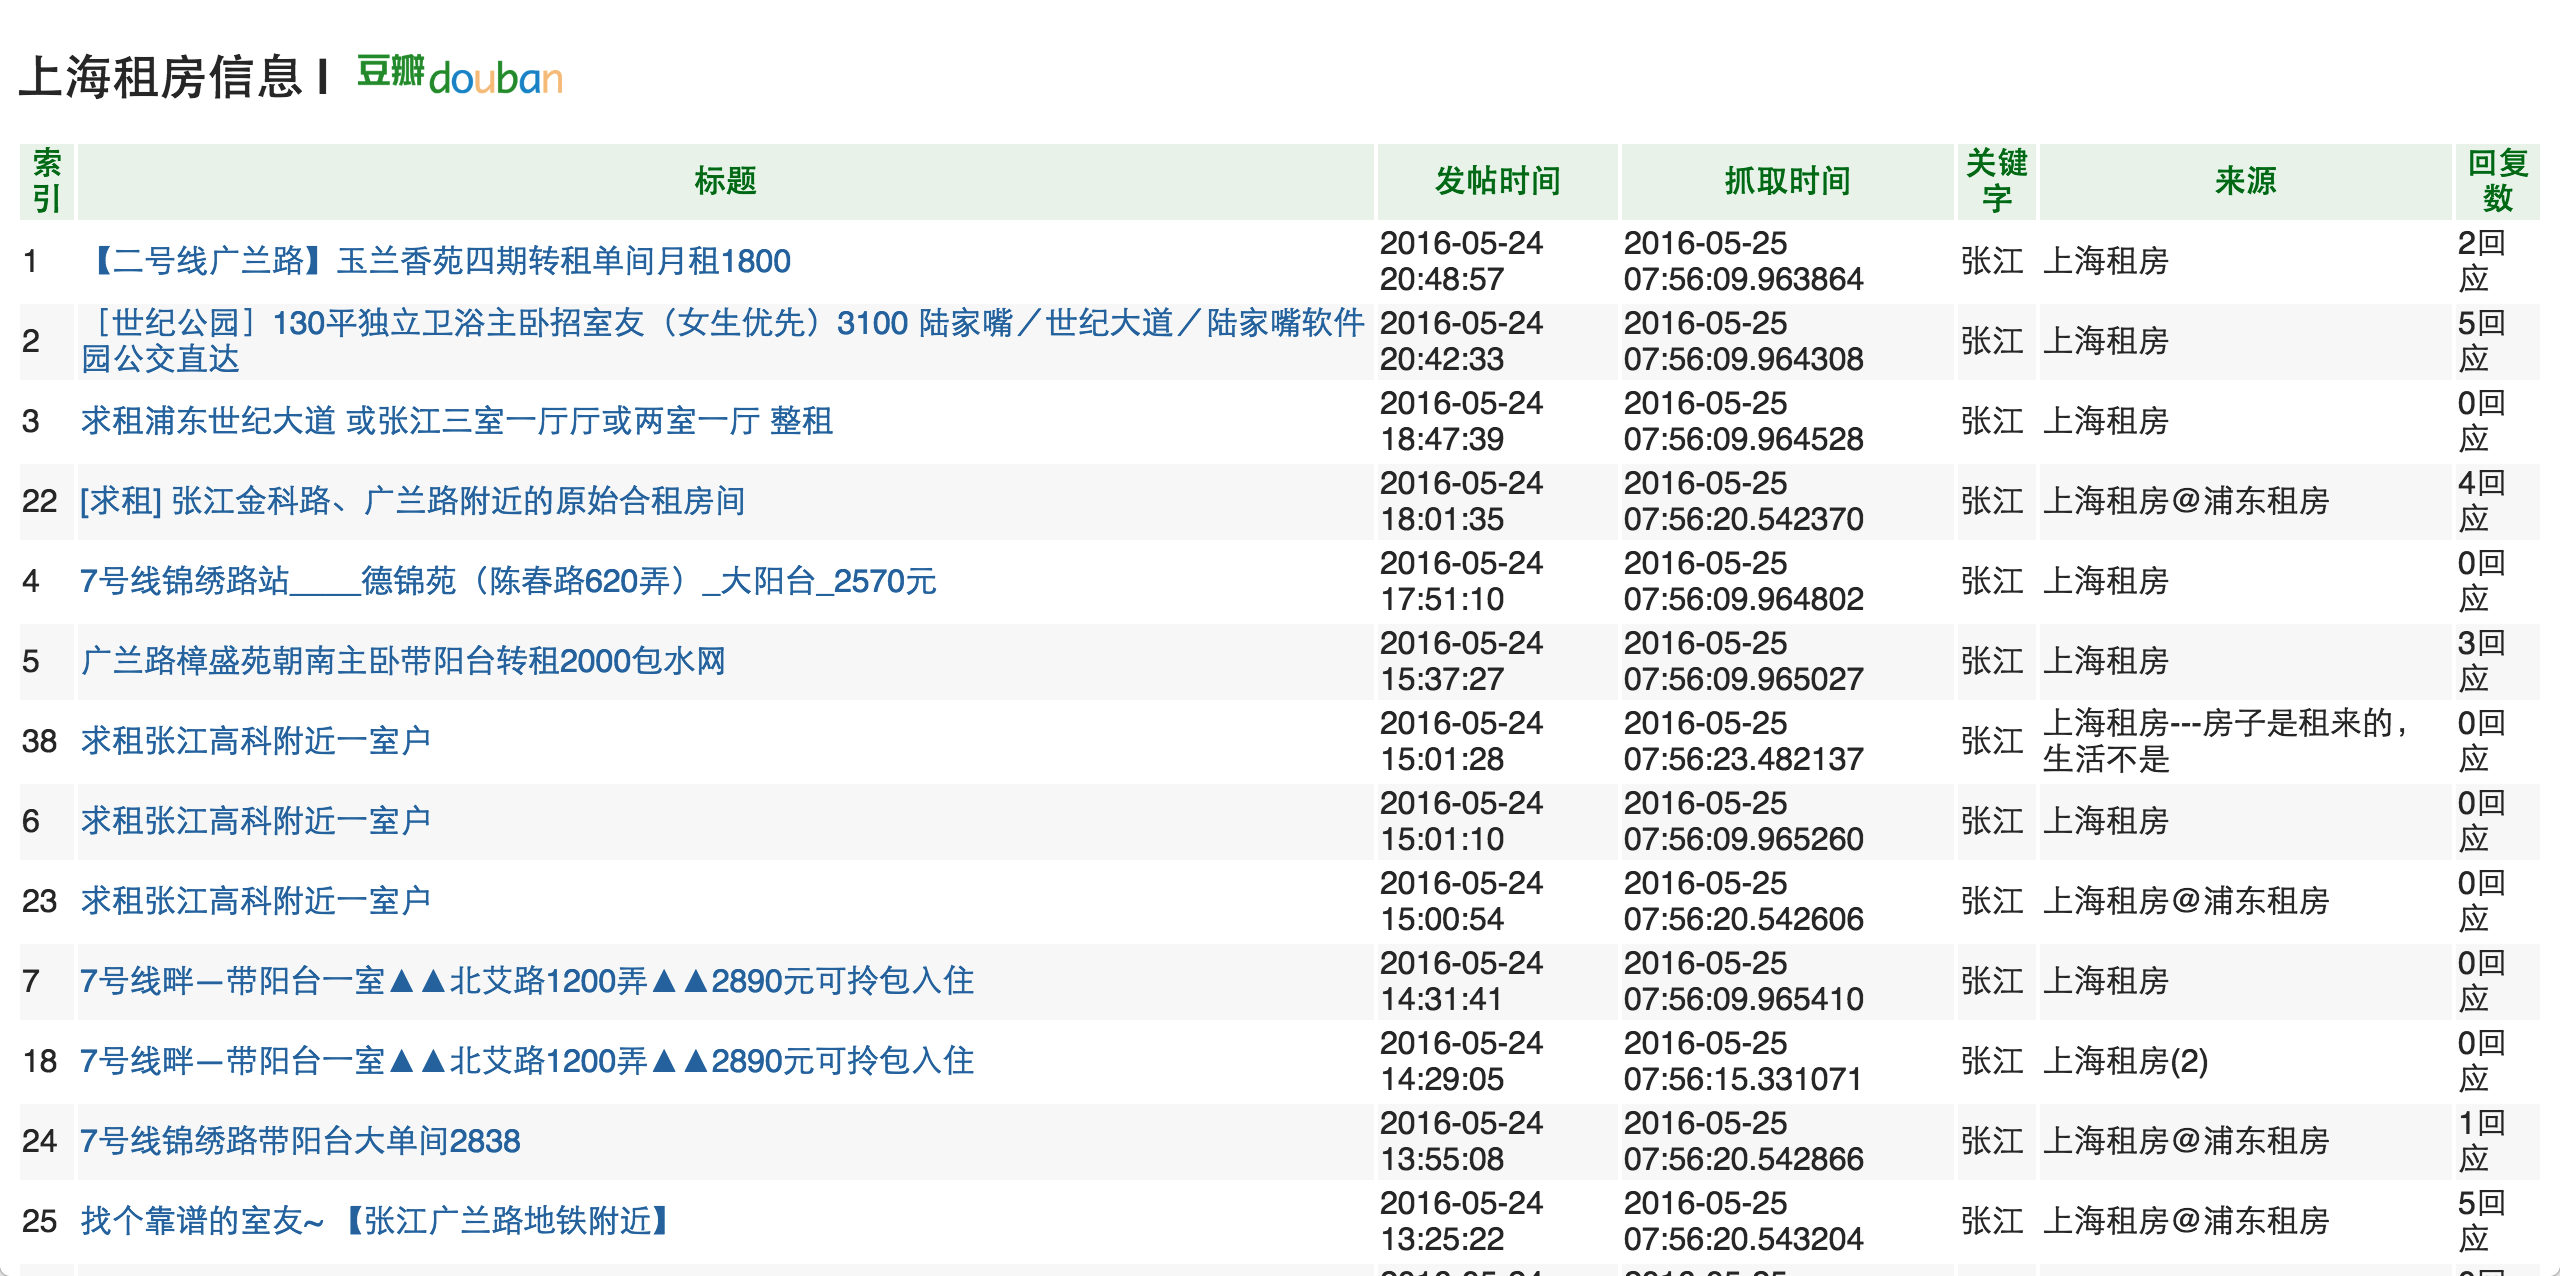
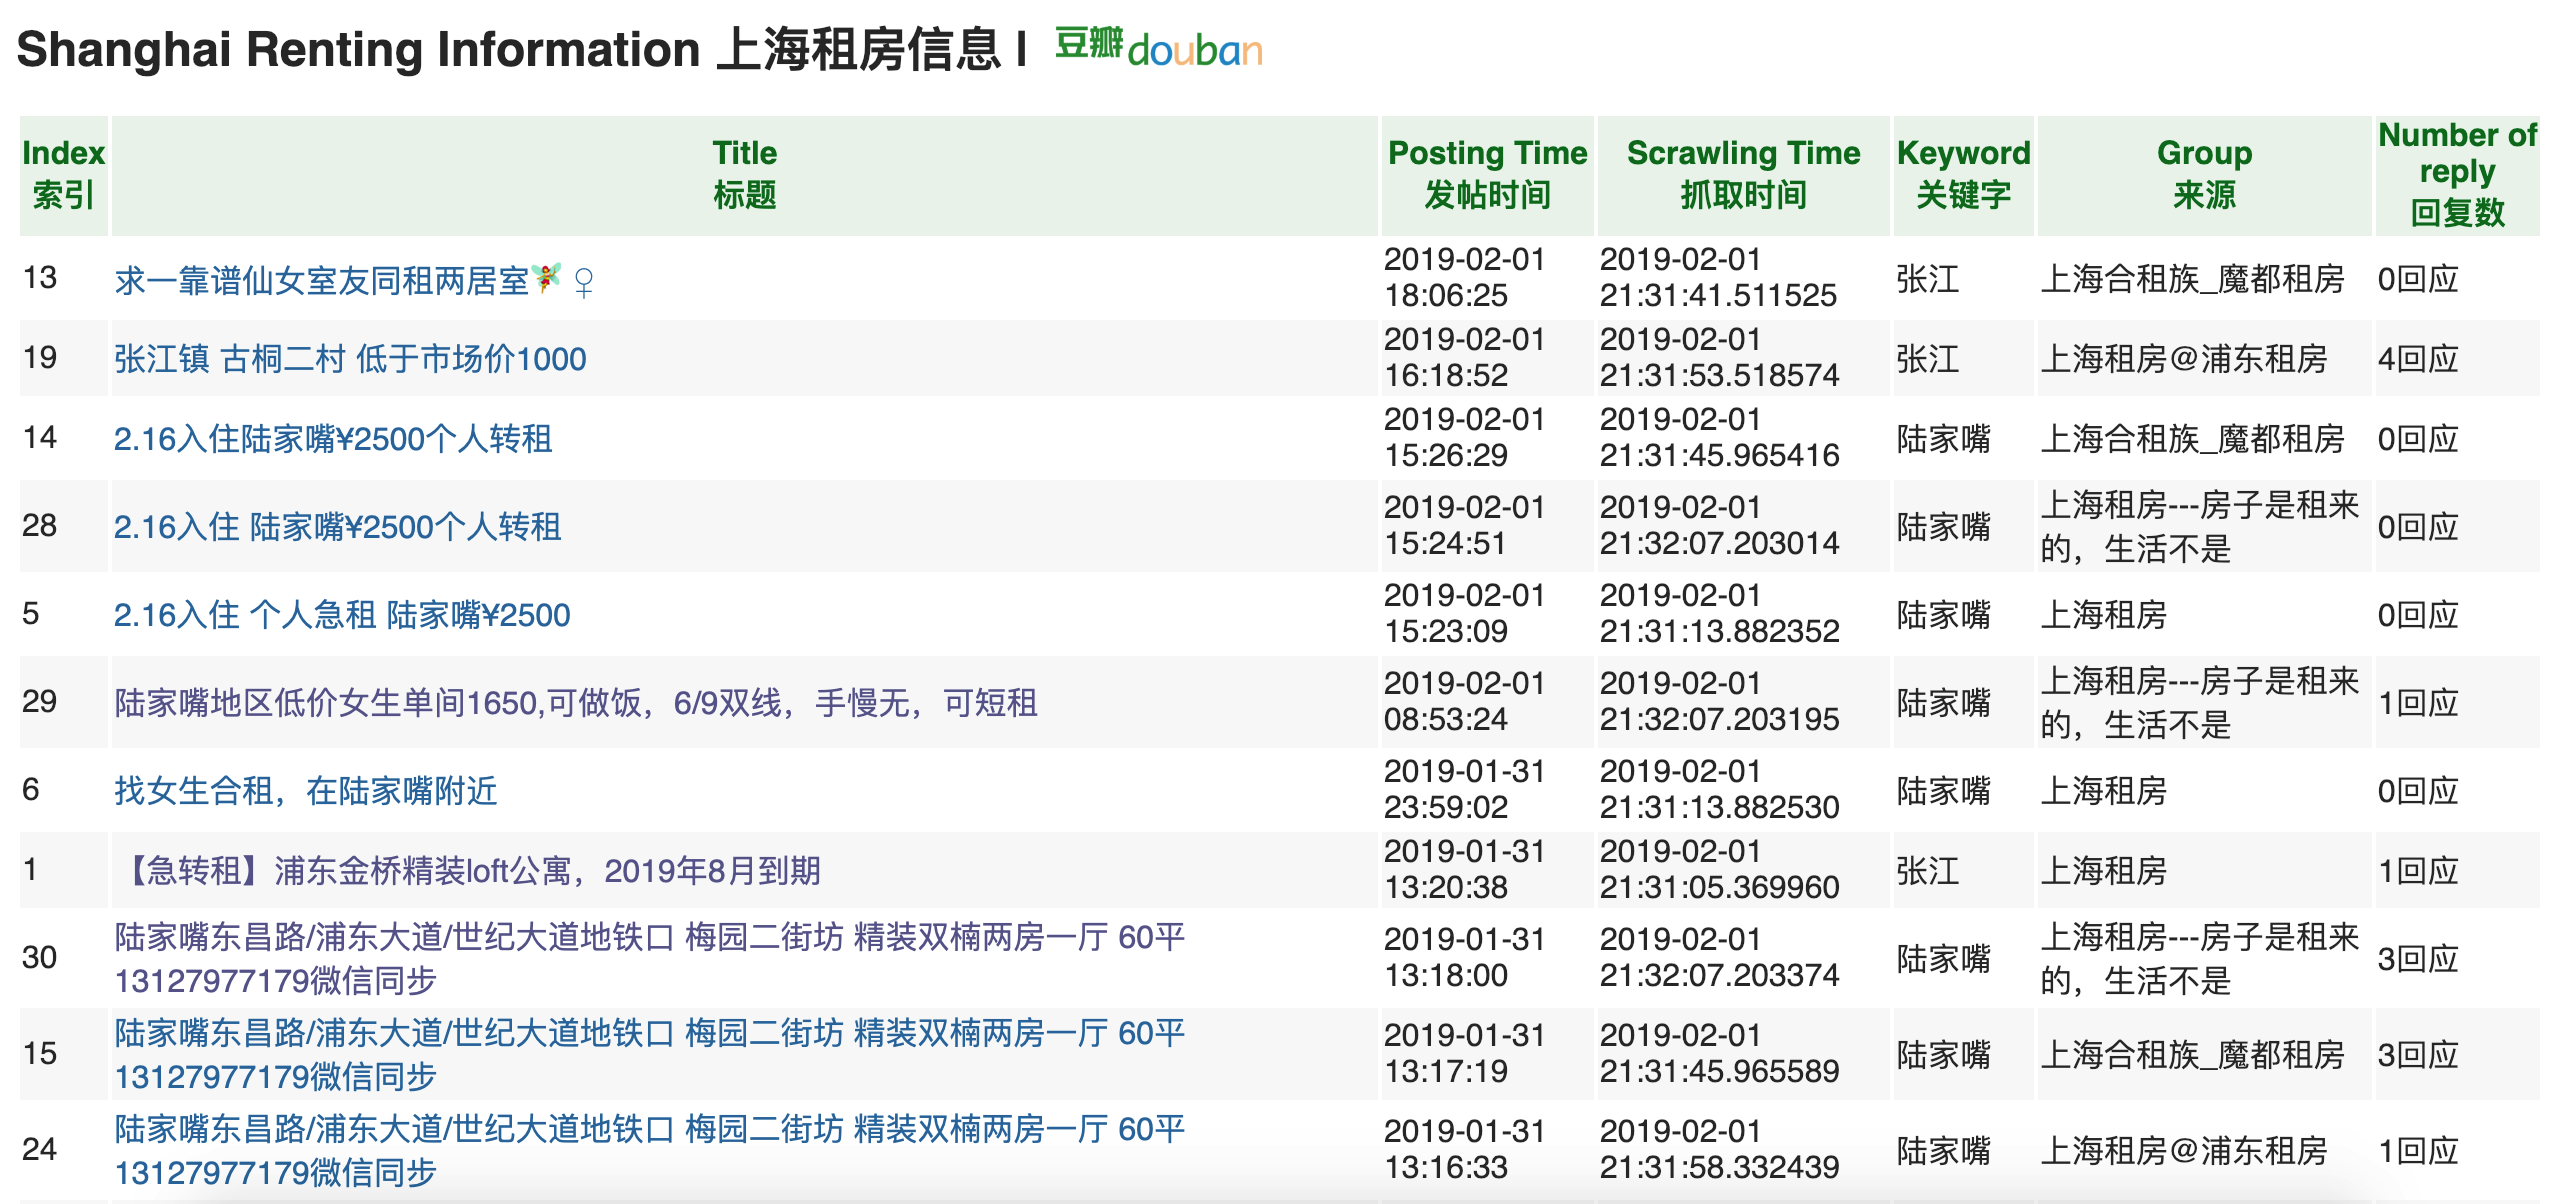
UPDATE README and FIX bug for session

diff --git a/houseRentingSpider.py b/houseRentingSpider.py
@@ -26,8 +26,8 @@ class Utils(object):
 
     @staticmethod
     def getTimeFromStr(timeStr):
-        # 13:47:32或者2016-05-25或者2016-05-25 13:47:32
-        # 都转成了datetime
+        # 13:47:32 or 2016-05-25 or 2016-05-25 13:47:32
+        # all be transformed to datetime
         if '-' in timeStr and ':' in timeStr:
             return datetime.datetime.strptime(timeStr, "%Y-%m-%d %H:%M:%S")
         elif '-' in timeStr:
@@ -43,8 +43,6 @@ class Utils(object):
 
 
 class Main(object):
-    douban_black_list=(u'搬家')
-
     def __init__(self, config):
         self.config = config
         self.douban_headers = {
@@ -61,7 +59,7 @@ class Main(object):
     def run(self):
         result_file_name = 'results/result_' + str(spider.file_time)
         try:
-            print '打开数据库...'
+            print 'Connecting database...  打开数据库...'
             # creat database
             conn = sqlite3.connect(result_file_name + '.sqlite')
             conn.text_factory = str
@@ -97,10 +95,10 @@ class Main(object):
                 if r.status_code == 200:
                     try:
                         if i == 0:
-                            self.douban_headers['Cookie'] = r.cookies
-                        soup = BeautifulSoup(r.text)
+                            self.douban_headers['Cookie'] = r.cookies.items()[0][1]
+                        soup = BeautifulSoup(r.text, "lxml")
                         paginator = soup.find_all(attrs={'class': 'paginator'})[0]
-                        # print "paginator: ", paginator
+
                         if (page_number != 0) and not paginator:
                             return False
                         else:
@@ -115,8 +113,6 @@ class Main(object):
                                     title_text = title_element.get('title')
                                     # ignore items in blacklist
                                     if Utils.isInBalckList(custom_black_list, title_text):
-                                        continue
-                                    if Utils.isInBalckList(self.douban_black_list, title_text):
                                         continue
                                     time_text = td[1].get('title')
 
@@ -139,7 +135,7 @@ class Main(object):
                                              douban_url_name[i], reply_count])
                                         print 'add new data:', title_text, time_text, reply_count, link_text, keyword
                                     except sqlite3.Error, e:
-                                        print 'data exists:', title_text, link_text, e # 之前添加过了而URL（设置了唯一）一样会报错
+                                        print 'data exists:', title_text, link_text, e # URL should be unique
                             except Exception, e:
                                 print 'error match table:', e
                     except Exception, e:
@@ -149,9 +145,9 @@ class Main(object):
                 else:
                     print 'request url error %s -status code: %s:' % (url_link, r.status_code)
                 time.sleep(self.config.douban_sleep_time)
-                
 
-            print '爬虫开始运行...'
+
+            print 'The spider begins to work...  爬虫开始运行...'
 
             douban_url = urlList(0)
             for i in range(len(douban_url)):
@@ -164,11 +160,10 @@ class Main(object):
                     keyword = search_list[j]
                     print 'start i->j %s -> %s %s' %(i, j, keyword)
                     print '>>>>>>>>>> Search %s  %s ...' % (douban_url_name[i].encode('utf-8'), keyword)
-                    
+
                     while spider.ok:
-                        spider.ok = True
                         print 'i, j, page_number: ', i, j, page_number
-                        
+
                         douban_url = urlList(page_number)
                         crawl(i, douban_url, keyword, self.douban_headers)
                         page_number += 1
@@ -180,8 +175,8 @@ class Main(object):
             values = cursor.fetchall()
 
             # export to html file
-            print '爬虫运行结束。开始写入结果文件'
-            
+            print 'The spider has finished working. Now begin to write the data in the result HTML.   爬虫运行结束。开始写入结果文件'
+
             file = open(result_file_name + '.html', 'wb')
             with file:
                 file.write('''<html>
@@ -191,7 +186,7 @@ class Main(object):
                     <link rel="stylesheet" type="text/css" href="../lib/resultPage.css">
                     </head>
                     <body>''')
-                file.write('<h1>上海租房信息 | </h1>')
+                file.write('<h1>Shanghai Renting Information 上海租房信息 | </h1>')
                 file.write('''
                     <a href="https://www.douban.com/" target="_black">
                     <img src="https://img3.doubanio.com/f/shire/8977fa054324c4c7f565447b003ebf75e9b4f9c6/pics/nav/lg_main@2x.png" alt="豆瓣icon"/>
@@ -199,7 +194,7 @@ class Main(object):
                     ''')
                 file.write('<table>')
                 file.write(
-                    '<tr><th>索引</th><th>标题</th><th>发帖时间</th><th>抓取时间</th><th>关键字</th><th>来源</th><th>回复数</th></tr>')
+                    '<tr><th>Index<br>索引</th><th>Title<br>标题</th><th>Posting Time<br>发帖时间</th><th>Scrawling Time<br>抓取时间</th><th>Keyword<br>关键字</th><th>Group<br>来源</th><th>Number of reply<br>回复数</th></tr>')
 
                 for row in values:
                     file.writelines('<tr>')
@@ -225,19 +220,8 @@ class Main(object):
         finally:
             conn.commit()
             conn.close()
-            print '========================================='
-            print '''
-            ##########     ##########
-            #        #     #        #
-            #        #     #        #
-            #   ##   #     #   ##   #
-            #        #     #        #
-            #        #     #        #
-            ##########     ##########
-
-            苟利租房生死以，岂因祸福避趋之。
-            '''
-            print '========================================='
+            print '=============================================='
+            print 'Finished writing the result HTML. Please open "' + result_file_name + '.html" to check the result'
             print '结果文件写入完毕。请打开"' + result_file_name + '.html"查看结果。'
 
 

diff --git a/README.md b/README.md
@@ -1,4 +1,73 @@
-# house-renting-spider
+# house-renting-spider (English version)  
+
+A web spider for crawling accommodation rental information in [Douban Group](https://www.douban.com/group/), which is a well-known Chinese online community.
+  
+## System Requirements:
+
+- Python 2.7.10  
+- pip
+- (Optional) [virtualenv](https://virtualenv.pypa.io/en/latest/)  
+
+## To start
+
+```bash
+# Clone the repo
+$ git clone https://github.com/PeggyZWY/house-renting-spider
+$ cd house-renting-spider
+
+# Install requirements
+$ pip install -r requirements.txt  
+
+# Modify config.ini
+$ vim config.ini
+```   
+  
+  
+Configure in **config.ini**：  
+1. `key_search_word_list` is the wanted keywords for the rented accommodation. If there is more than one keyword, use `,` to delimit them.  
+2. `custom_black_list` is the unwanted keyword. Similarly, if there is more than one keyword, use `,` to delimit them.  
+3. `start_time` is the earliest date for the post posted. Set the date in the format like `2018-12-31`.  
+4. Under the option of `[douban]`, `douban_cookie` and `douban_sleep_time` don't need to be changed, since the programme will set the cookie automatically. It is recommended to set `douban_sleep_time` to 1 second, in order not to be defined as a web spider by Douban.com.  
+ 
+
+For example:  
+![config](img/config.png)  
+  
+After finishing configuration, type the following in the terminal:  
+  
+```bash  
+$ python houseRentingSpider.py  
+```  
+  
+Then wait for the spider to work...  
+    
+    
+When it finishes, information like the following will be shown：  
+![config](img/finish_hint.png)  
+    
+    
+According to the address, open the HTML in any brower and the example results are shown as followes:  
+![config](img/result.png)  
+  
+  
+  
+## Others  
+In `houseRentingSpider.py`, there are groups set as following for example.    
+
+![config](img/setGroup.png)    
+
+The group number in the URL list in `douban_url` should be correspondent to the names in `douban_url_name`.  
+  
+In all, after setting the groups here, and setting keywords in `config.ini`, you can have your own web spider.  
+  
+  
+  
+  
+ ---------------------- 
+  
+  
+  
+# house-renting-spider (Chinese version) 
 豆瓣小组上海租房爬虫
   
 ## System Requirements:
@@ -25,7 +94,7 @@ $ vim config.ini
 在**config.ini**里配置并保存：  
 1. `key_search_word_list`为想要搜索的关键词。如果有多个关键词，请用**英文**逗号`,`隔开  
 2. `custom_black_list`为拒绝的关键词黑名单。同样如果有多个关键词，请用**英文**逗号`,`隔开  
-3. `start_time`为要搜索在这个时间之后的信息。请用`2016-05-01`这种格式表示日期  
+3. `start_time`为要搜索在这个时间之后的信息。请用`2018-12-31`这种格式表示日期  
 4. `[douban]`这个option下的`douban_cookie`和`douban_sleep_time`不需要改变。程序里会自动设置cookie；`douban_sleep_time`设为1秒钟比较合适，防止豆瓣反爬虫封号  
 
 比如：  
